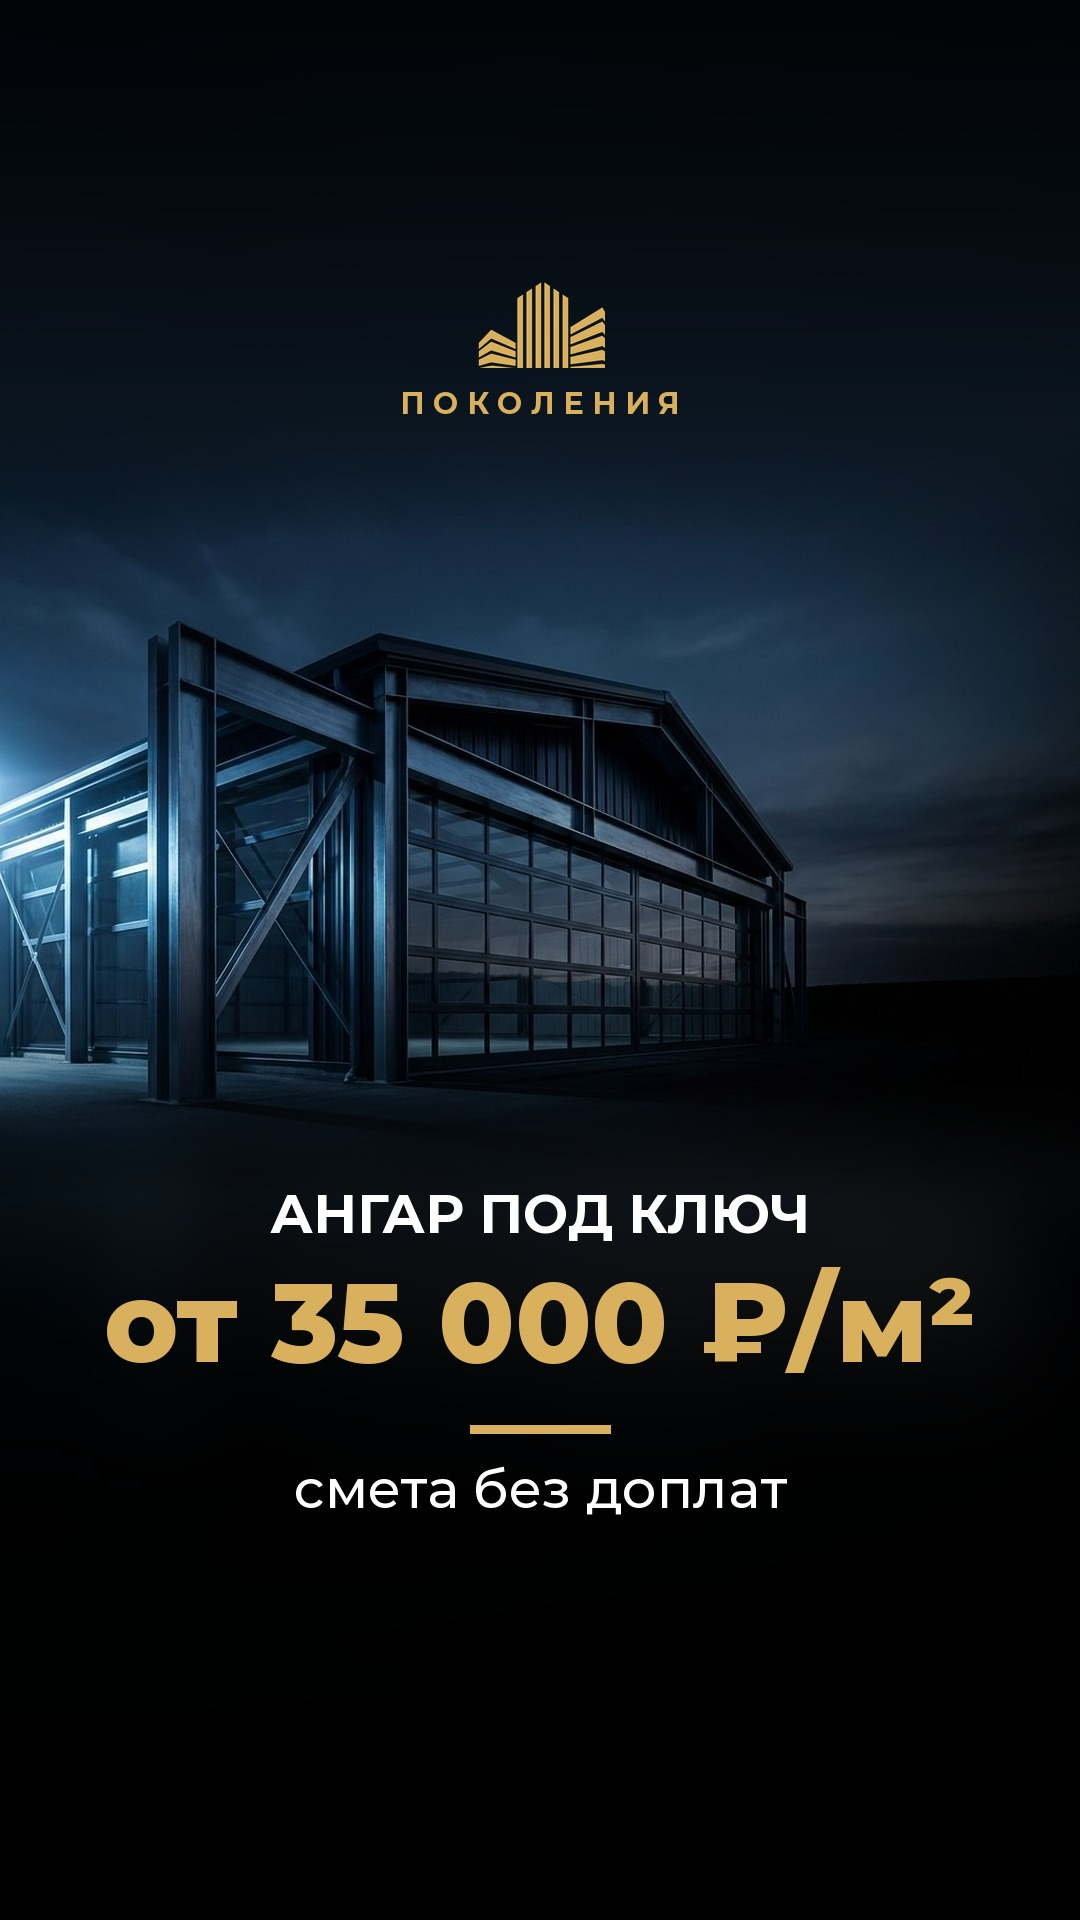
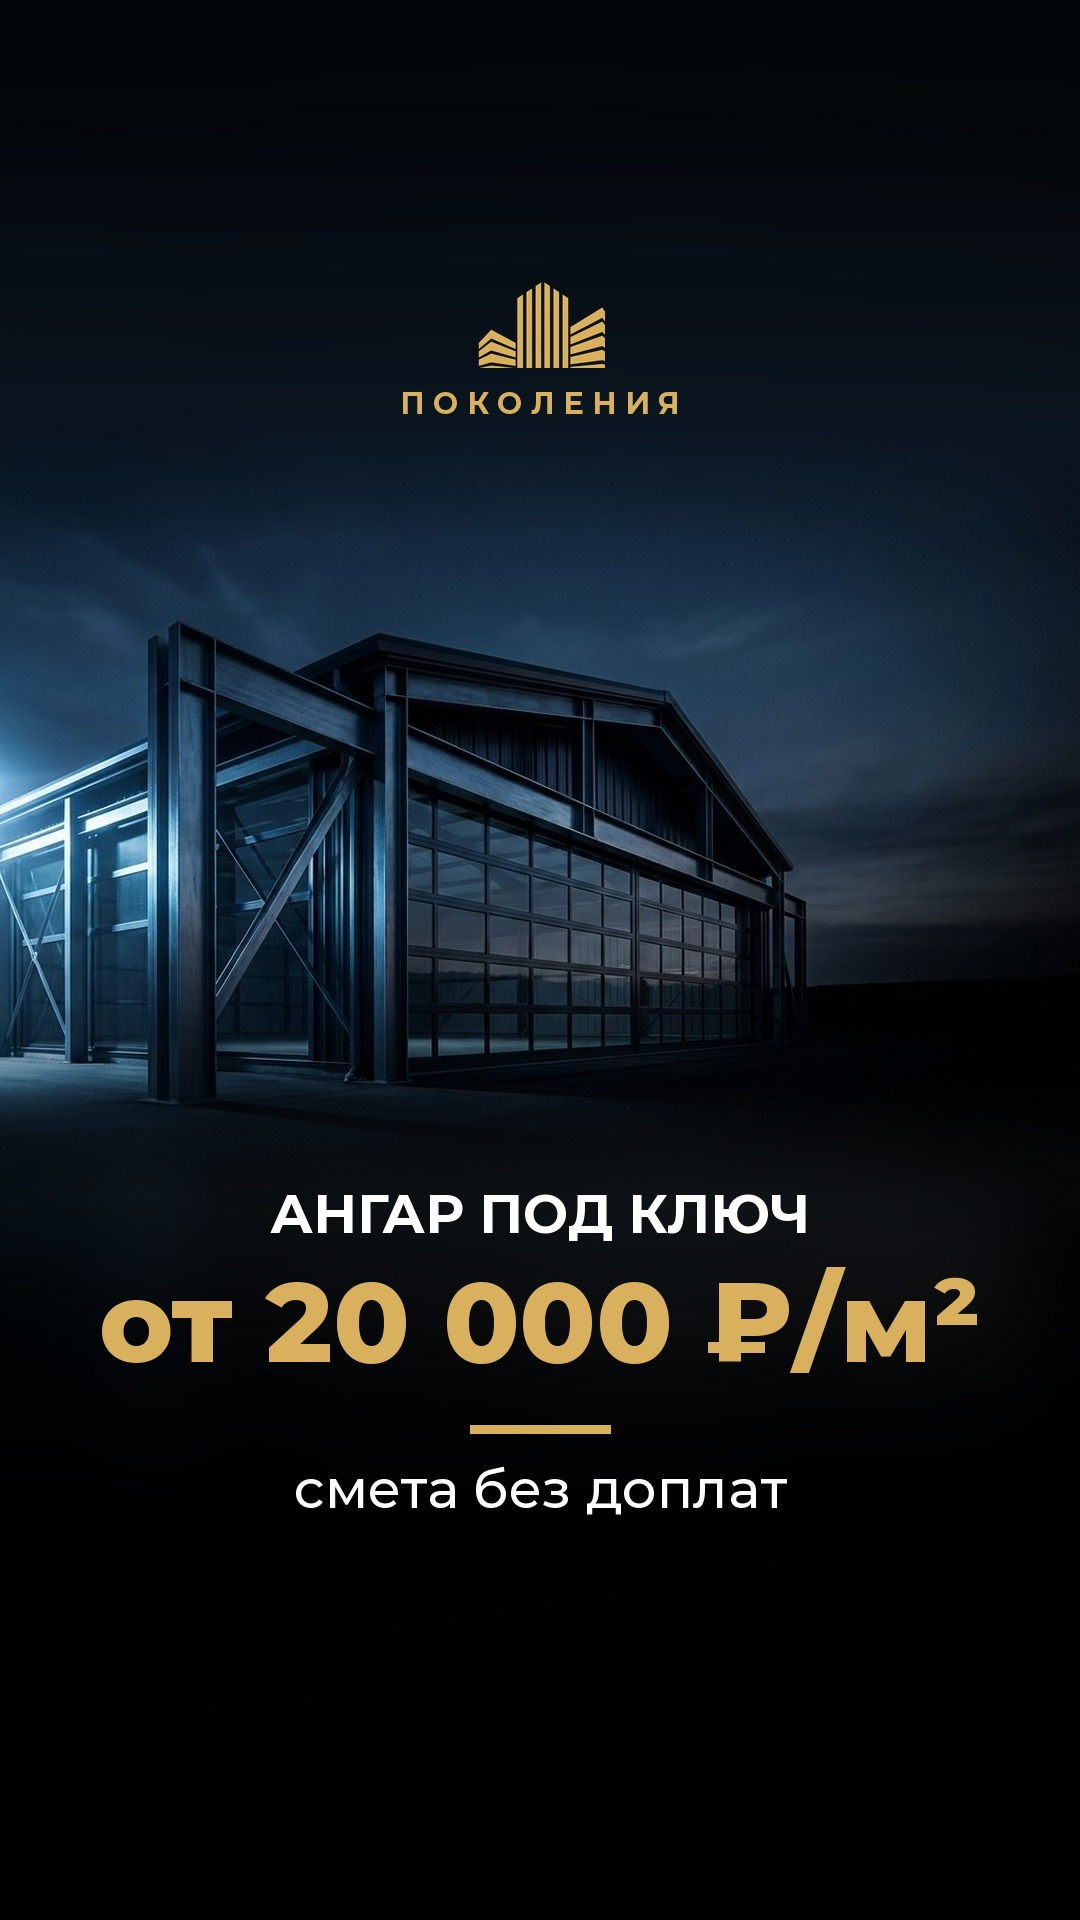
Change public price to from 20000 per m2
Claude-Session: https://claude.ai/code/session_019hh1tyQfnmNP9Rdxadr1Bk

diff --git a/brand/carousel_kapital.py b/brand/carousel_kapital.py
@@ -89,7 +89,7 @@ d.rectangle([72,y+50,W-72,y+54],fill=(60,60,60)); y+=110
 y=para(d,72,y,'Не уверены в своём случае?',F(48,'800'),WHT,936)
 d.text((72,y+10),'Напишите',font=F(48,'800'),fill=WHT); x=72+d.textlength('Напишите ',font=F(48,'800'))
 d.text((x,y+10),'«РАСЧЁТ»',font=F(48,'800'),fill=GOLD); d.text((72,y+72),'в директ',font=F(48,'800'),fill=WHT)
-para(d,72,y+160,'Посчитаем смету «всё включено» — от\u00a035\u00a0000\u00a0₽/м²',F(38,'500'),WHT,936)
+para(d,72,y+160,'Посчитаем смету «всё включено» — от\u00a020\u00a0000\u00a0₽/м²',F(38,'500'),WHT,936)
 footer(im,9); im.convert('RGB').save(OUT+'09.jpg',quality=93)
 
 # превью-лист

diff --git a/brand/covers.py b/brand/covers.py
@@ -63,7 +63,7 @@ im.convert('RGB').save(OUT+'1_prorab.jpg',quality=92)
 # 2 Цифра
 im=shade(fit_bg(hang,box_y=420),start=1000); im=brand(im)
 y=lines(im,1180,[('АНГАР ПОД КЛЮЧ',54,WHT,'700')]); 
-y=lines(im,y+10,[('от 35 000 ₽/м²',112,GOLD,'800')]); accent(im,y+40); lines(im,y+70,[('смета без доплат',54,WHT,'500')])
+y=lines(im,y+10,[('от 20 000 ₽/м²',112,GOLD,'800')]); accent(im,y+40); lines(im,y+70,[('смета без доплат',54,WHT,'500')])
 im.convert('RGB').save(OUT+'2_cifra.jpg',quality=92)
 
 # 3 Вопрос

diff --git a/.agents/product-marketing.md b/.agents/product-marketing.md
@@ -1,6 +1,6 @@
 # Product Marketing Context
 
-**Document version:** v1.5 (черновик — собран по Instagram, ждёт правок владельца)
+**Document version:** v1.6 (черновик — собран по Instagram, ждёт правок владельца)
 **Last updated:** 2026-11-17
 
 > Источник: профиль и последние 25 публикаций @prorab.artem (`python instagram.py profile`).
@@ -11,7 +11,7 @@
 **What it does:** РСК «Поколения» проектирует и строит ангары, склады, производственные здания, торговые объекты, автосервисы и ФОКи из металлоконструкций и сэндвич-панелей. Берёт на себя полный цикл (9 этапов) с одной командой и одним контуром ответственности. Делает кровельные работы (фальцевая кровля) и ремонт.
 **Product category:** строительство ангаров / быстровозводимых зданий / складов под ключ; генподряд.
 **Product type:** услуга (B2B, частично B2C — владельцы участков).
-**Business model:** проектная работа по смете; бесплатный расчёт по проекту как вход в воронку. Публичная цена (для обложек и рекламы): **от 35 000 ₽ за м²** — решение владельца 17.11.2026. Ранее владелец называл среднюю 27 000 ₽/м²; в контенте используем только «от 35 000 ₽/м²». **[уточнить]** предоплата, этапность оплаты.
+**Business model:** проектная работа по смете; бесплатный расчёт по проекту как вход в воронку. Публичная цена (для обложек и рекламы): **от 20 000 ₽ за м²** — решение владельца 17.11.2026 (ранее звучали 27 000 средняя и «от 20 000»). В контенте используем только «от 20 000 ₽/м²». **[уточнить]** предоплата, этапность оплаты.
 **Регион:** главные — Москва и Санкт-Петербург (с областями); дополнительно — Мурманск, Омск, юг России. Контент делаем в первую очередь под МСК и СПб.
 **Контакты:** директ @prorab.artem (кодовое слово «РАСЧЁТ»), +7 981 908-22-97, rsk-47@bk.ru, Telegram t.me/spbpokoleniya.
 
@@ -120,7 +120,8 @@
 - Дубли одного ролика в один день (3 версии «Сколько стоит ангар») делят охват — лучше один сильный ролик.
 
 ## Changelog
-- v1.5 (2026-11-17): публичная цена — от 35 000 ₽/м²; фирменный стиль чёрный + золото, слоган «All-inclusive в строительстве».
+- v1.6 (2026-11-17): публичная цена — от 20 000 ₽/м².
+- v1.5 (2026-11-17): публичная цена — от 20 000 ₽/м²; фирменный стиль чёрный + золото, слоган «All-inclusive в строительстве».
 - v1.4 (2026-11-17): главные регионы — МСК и СПб; конкуренты по Москве.
 - v1.3 (2026-11-17): подтверждено — 27 000 ₽/м².
 - v1.2 (2026-11-17): аудитория (малый и крупный бизнес), главное отличие — прозрачная смета, анализ конкурентов.
